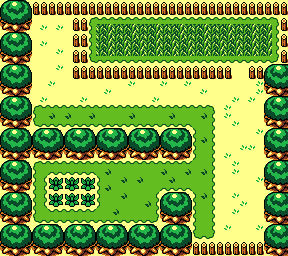
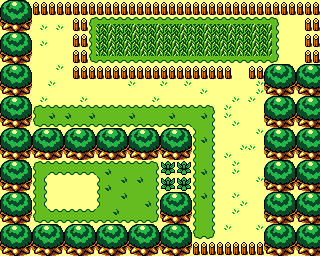
Adding more enemies. Changing the map with bushes.

diff --git a/source/default/objectspawning.c b/source/default/objectspawning.c
@@ -67,11 +67,14 @@ void SpawnObjectsForArea() NONBANKED{
 
         if(nextCameraSectionColumn==0&&nextCameraSectionRow==0){
 
+            SPAWN_MOBLIN_AT(120,40,moblinTileIndex);
+
             SPAWN_CHEST_AT(60,40,chestTileIndex);
 
         }else if(nextCameraSectionColumn==1&&nextCameraSectionRow==0){
             
-            SPAWN_MOBLIN_AT(120,40,18);
+            
+            SPAWN_MOBLIN_AT(120,40,moblinTileIndex);
 
             uint8_t marinX = gotSword ? 64 : 80;
             uint8_t marinY = gotSword ? 84 : 71;
@@ -85,6 +88,10 @@ void SpawnObjectsForArea() NONBANKED{
                 SPAWN_SWORD_AT(90,70,swordTileIndex);
 
             }
+        }else if(nextCameraSectionColumn==0&&nextCameraSectionRow==1){
+
+            
+            SPAWN_MOBLIN_AT(80,50,moblinTileIndex);
         }
     }
 
